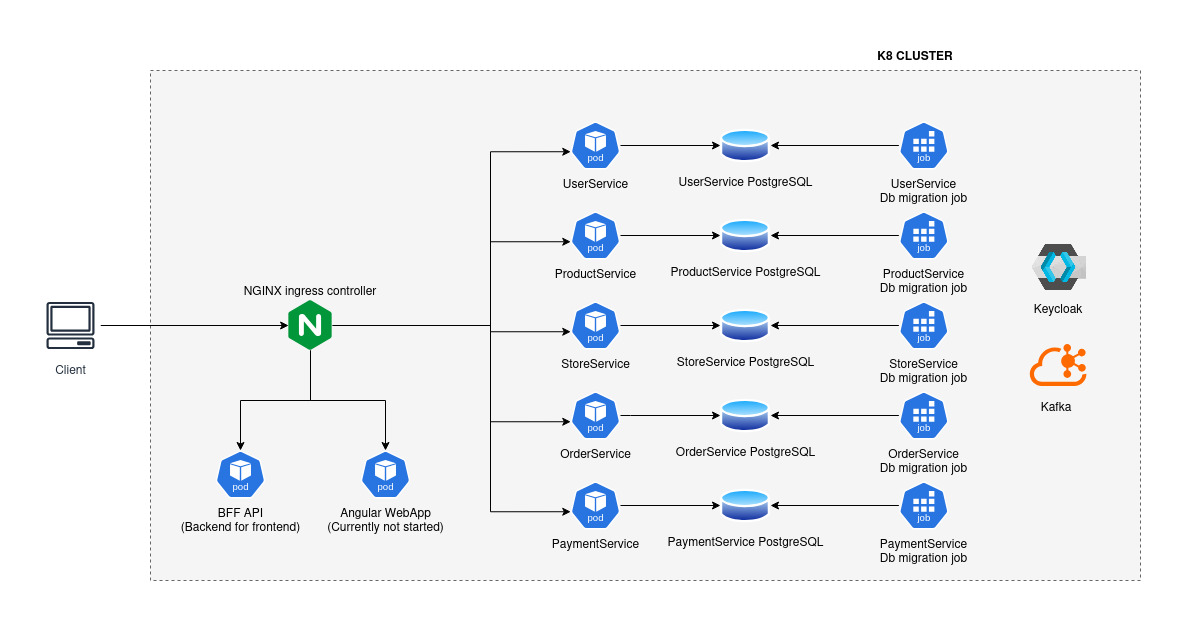
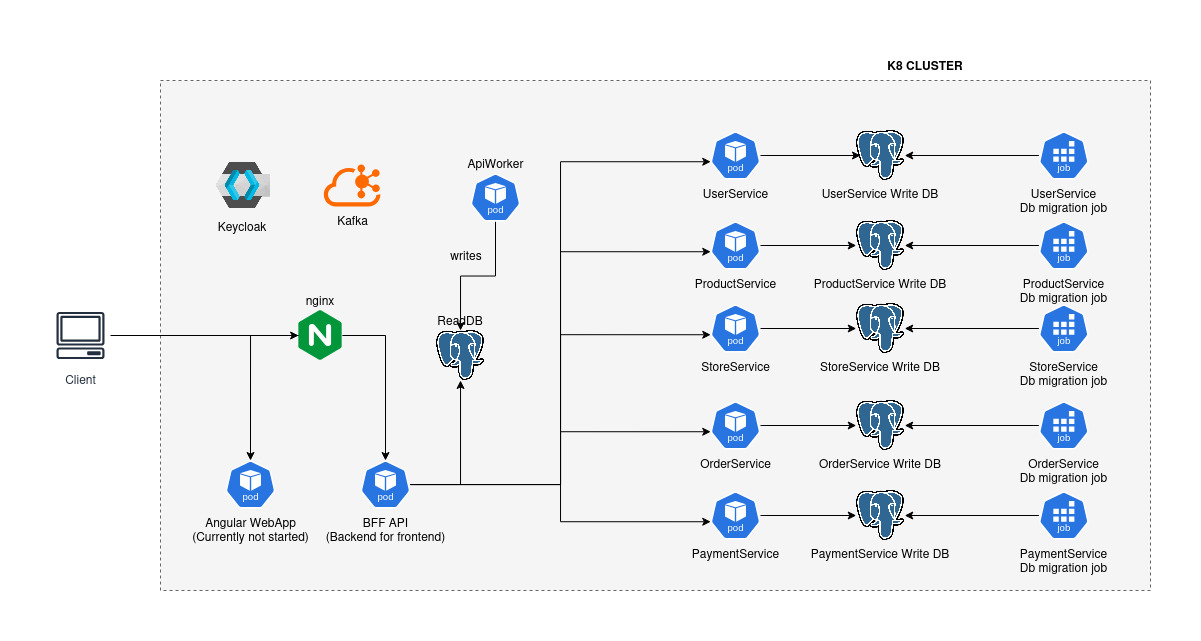
Update README.md

diff --git a/README.md b/README.md
@@ -1,10 +1,13 @@
 # E-Commerce Store application.
 
+A full-stack e-commerce platform built as a microservice learning project. It demonstrates CQRS with Kafka-backed read-model projection, Keycloak auth, Stripe 
+checkout, and Docker Compose–based local orchestration.
+
 ## Architecture (currently no full K8 implementation, just Docker Compose)
 ![Architecture](./docs/images/architecture.jpg)
 
 ## Tech stack
-* Frontend: Angular.
+* Frontend: Angular + Angular Material.
 * Backend: ASP.NET Core(.NET 9).
 * Persistence: PostgreSQL, EF Core.
 * Containerization & Orchestration: Docker, Docker Compose, Kubernetes (not fully implemented, maybe in the future).
@@ -20,11 +23,17 @@
 * Role-based auth using Keycloak.
 
 ## Design
-* Used microservice architecture mainly to more deeply learn about how enterprise apps work.
-* Containerized the whole application using Docker, set up a development environment using Docker Compose and a simple Kubernetes cluster (not finished).
-* Implemented auth using the Keycloak identity provider.
-* Followed a code-first approach to database design using EF Core.
-* Created a payment system that currently supports Stripe.
+* Built a microservice-based architecture to gain hands-on experience with distributed systems and enterprise application design.
+* Implemented the CQRS pattern by separating write and read models, using dedicated write databases per service and a centralized read database. The read model is kept in sync via Kafka events processed by an API worker service. This improves read performance and scalability of PostgreSQL instances, at the cost of eventual consistency between write and read models.
+* Containerized the entire system using Docker and set up local development with Docker Compose, alongside an experimental Kubernetes cluster (in progress).
+* Integrated authentication and role-based authorization using Keycloak as an identity provider.
+* Followed a code-first approach to Designed and implemented a payment system with support for Stripe integration.database design using EF Core.
+* Designed a payment system with support for Stripe integration.
+
+## Prerequisites
+* Docker + Docker Compose
+* Stripe CLI (only if testing checkout)
+* LocalStack account and auth token.
 
 ## Setup
 ### Start the app
@@ -37,7 +46,6 @@
   ```bash
   docker compose up
   ```
-* Access the frontend via http://localhost:4200
 * Note: it takes 1-2 minutes to start all services.
 * Note: if you are on Windows, it is recommended to run this in WSL.
 #### K8 setup (very experimental, not fully implemented)
@@ -67,9 +75,19 @@
   --data-urlencode grant_type=client_credentials
   ```
 
-### OpenAPI endpoints:
-* http://localhost:8080/productservice/openapi/v1.json
-* http://localhost:8080/storeservice/openapi/v1.json
-* http://localhost:8080/userservice/openapi/v1.json
-* http://localhost:8080/orderservice/openapi/v1.json
-* http://localhost:8080/paymentservice/openapi/v1.json
+## Local URLs
+
+| URL | Service | Description |
+| --- | --- | --- |
+| http://localhost:4200 | Frontend | Angular storefront and admin UI |
+| http://localhost:8080/bff/ | BFF | Backend-for-frontend API (used by the Angular app) |
+| http://localhost:8080/auth/ | Keycloak | Identity provider (via nginx reverse proxy) |
+| http://localhost:9003 | Keycloak | Keycloak admin console (`admin` / `admin`) |
+| http://localhost:9000 | Adminer | PostgreSQL web UI |
+| http://localhost:9001 | Kafka UI | Kafka cluster browser |
+| http://localhost:8080/bff/openapi/v1.json | BFF | OpenAPI spec |
+| http://localhost:8080/productservice/openapi/v1.json | ProductService | OpenAPI spec |
+| http://localhost:8080/storeservice/openapi/v1.json | StoreService | OpenAPI spec |
+| http://localhost:8080/userservice/openapi/v1.json | UserService | OpenAPI spec |
+| http://localhost:8080/orderservice/openapi/v1.json | OrderService | OpenAPI spec |
+| http://localhost:8080/paymentservice/openapi/v1.json | PaymentService | OpenAPI spec |